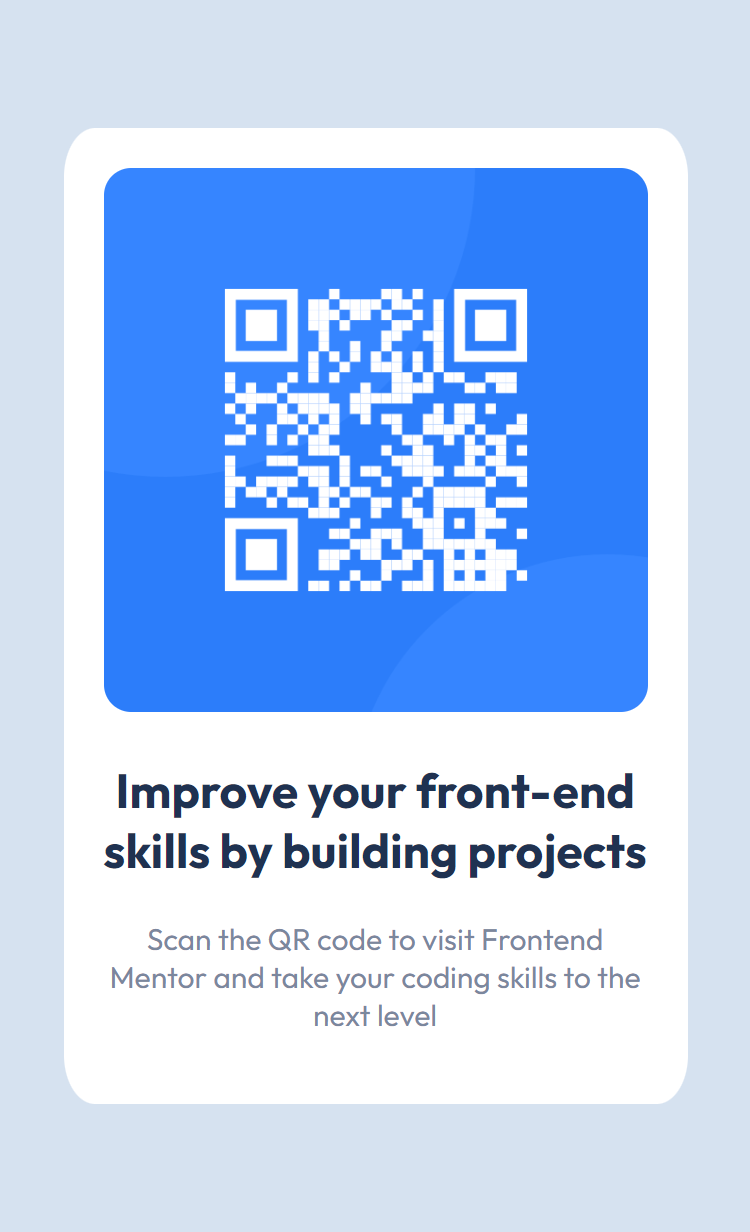
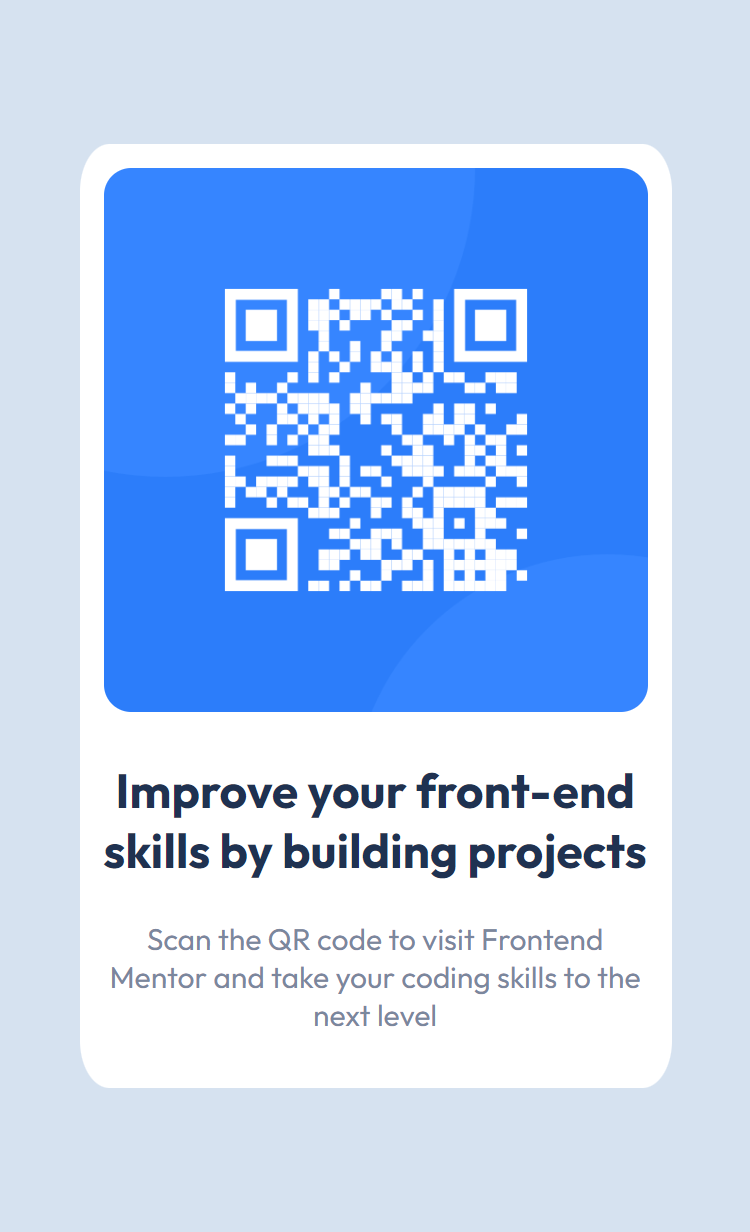
Final README and repository setup

Changed region(s): [[0.0613, 0.0925, 0.92, 0.8945]]

diff --git a/style.css b/style.css
@@ -21,7 +21,7 @@ body {
 .component {
   background-color: var(--white);
   flex-direction: column;
-  padding: 20px;
+  padding: 12px;
   border-radius: 5%;
   max-width: 17rem;
 }

diff --git a/README.md b/README.md
@@ -1,87 +1,75 @@
-# Frontend Mentor - QR code component
+# Frontend Mentor - QR code component solution
 
-![Design preview for the QR code component coding challenge](./design/desktop-preview.jpg)
+This is a solution to the [QR code component challenge on Frontend Mentor](https://www.frontendmentor.io/challenges/qr-code-component-iux_sIO_H). Frontend Mentor challenges help you improve your coding skills by building realistic projects.
 
-## Welcome! 👋
+## Table of contents
 
-Thanks for checking out this front-end coding challenge.
+- [Overview](#overview)
+  - [Screenshot](#screenshot)
+  - [Links](#links)
+- [My process](#my-process)
+  - [Built with](#built-with)
+  - [What I learned](#what-i-learned)
+  - [Continued development](#continued-development)
+  - [Useful resources](#useful-resources)
+- [Author](#author)
+- [Acknowledgments](#acknowledgments)
 
-[Frontend Mentor](https://www.frontendmentor.io) challenges help you improve your coding skills by building realistic projects.
+**Note: Delete this note and update the table of contents based on what sections you keep.**
 
-**To do this challenge, you need a basic understanding of HTML and CSS.**
+## Overview
 
-## The challenge
+### Desktop Screenshot
 
-Your challenge is to build out this QR code component and get it looking as close to the design as possible.
+![](/screenshot.png)
 
-You can use any tools you like to help you complete the challenge. So if you've got something you'd like to practice, feel free to give it a go.
+### Mobile Screenshot
 
-Want some support on the challenge? [Join our Slack community](https://www.frontendmentor.io/slack) and ask questions in the **#help** channel.
+![](/mobile_screenshot.png)
 
-## Where to find everything
+### Links
 
-Your task is to build out the project to the designs inside the `/design` folder. You will find both a mobile and a desktop version of the design. 
+- Solution URL: [Repository with the solution](https://github.com/nicolasfig/qr-code-component-main)
+- Live Site URL: [Live site on github pages](https://nicolasfig.github.io/qr-code-component-main/)
 
-The designs are in JPG static format. Using JPGs will mean that you'll need to use your best judgment for styles such as `font-size`, `padding` and `margin`. 
+## My process
 
-If you would like the design files (we provide Sketch & Figma versions) to inspect the design in more detail, you can [subscribe as a PRO member](https://www.frontendmentor.io/pro).
+### Built with
 
-You will find all the required assets in the `/images` folder. The assets are already optimized.
+- Semantic HTML5 markup
+- CSS custom properties
+- Flexbox
 
-There is also a `style-guide.md` file containing the information you'll need, such as color palette and fonts.
+### What I learned
 
-## Building your project
+Learned basic css positioning using flexbox, how to fit images inside a container and the use of css variables
 
-Feel free to use any workflow that you feel comfortable with. Below is a suggested process, but do not feel like you need to follow these steps:
+```css
+:root {
+  --white: hsl(0, 0%, 100%);
+  --light-grey: hsl(212, 45%, 89%);
+  --grayish-blue: hsl(220, 15%, 55%);
+  --dark-blue: hsl(218, 44%, 22%);
+  --outfit: "Outfit", sans-serif;
+  --f-regular: 400;
+  --f-bold: 700;
+}
 
-1. Initialize your project as a public repository on [GitHub](https://github.com/). Creating a repo will make it easier to share your code with the community if you need help. If you're not sure how to do this, [have a read-through of this Try Git resource](https://try.github.io/).
-2. Configure your repository to publish your code to a web address. This will also be useful if you need some help during a challenge as you can share the URL for your project with your repo URL. There are a number of ways to do this, and we provide some recommendations below.
-3. Look through the designs to start planning out how you'll tackle the project. This step is crucial to help you think ahead for CSS classes to create reusable styles.
-4. Before adding any styles, structure your content with HTML. Writing your HTML first can help focus your attention on creating well-structured content.
-5. Write out the base styles for your project, including general content styles, such as `font-family` and `font-size`.
-6. Start adding styles to the top of the page and work down. Only move on to the next section once you're happy you've completed the area you're working on.
+img {
+  object-fit: contain;
+  border-radius: 5%;
+  width: 100%;
+}
+```
 
-## Deploying your project
+### Continued development
 
-As mentioned above, there are many ways to host your project for free. Our recommend hosts are:
+### Useful resources
 
-- [GitHub Pages](https://pages.github.com/)
-- [Vercel](https://vercel.com/)
-- [Netlify](https://www.netlify.com/)
+- [Flexbox maven](https://flexbox.malven.co/) - A really helpful flexbox cheatsheet
 
-You can host your site using one of these solutions or any of our other trusted providers. [Read more about our recommended and trusted hosts](https://medium.com/frontend-mentor/frontend-mentor-trusted-hosting-providers-bf000dfebe).
+## Author
 
-## Create a custom `README.md`
-
-We strongly recommend overwriting this `README.md` with a custom one. We've provided a template inside the [`README-template.md`](./README-template.md) file in this starter code.
-
-The template provides a guide for what to add. A custom `README` will help you explain your project and reflect on your learnings. Please feel free to edit our template as much as you like.
-
-Once you've added your information to the template, delete this file and rename the `README-template.md` file to `README.md`. That will make it show up as your repository's README file.
-
-## Submitting your solution
-
-Submit your solution on the platform for the rest of the community to see. Follow our ["Complete guide to submitting solutions"](https://medium.com/frontend-mentor/a-complete-guide-to-submitting-solutions-on-frontend-mentor-ac6384162248) for tips on how to do this.
-
-Remember, if you're looking for feedback on your solution, be sure to ask questions when submitting it. The more specific and detailed you are with your questions, the higher the chance you'll get valuable feedback from the community.
-
-## Sharing your solution
-
-There are multiple places you can share your solution:
-
-1. Share your solution page in the **#finished-projects** channel of the [Slack community](https://www.frontendmentor.io/slack). 
-2. Tweet [@frontendmentor](https://twitter.com/frontendmentor) and mention **@frontendmentor**, including the repo and live URLs in the tweet. We'd love to take a look at what you've built and help share it around.
-3. Share your solution on other social channels like LinkedIn.
-4. Blog about your experience building your project. Writing about your workflow, technical choices, and talking through your code is a brilliant way to reinforce what you've learned. Great platforms to write on are [dev.to](https://dev.to/), [Hashnode](https://hashnode.com/), and [CodeNewbie](https://community.codenewbie.org/).
-
-We provide templates to help you share your solution once you've submitted it on the platform. Please do edit them and include specific questions when you're looking for feedback. 
-
-The more specific you are with your questions the more likely it is that another member of the community will give you feedback.
-
-## Got feedback for us?
-
-We love receiving feedback! We're always looking to improve our challenges and our platform. So if you have anything you'd like to mention, please email hi[at]frontendmentor[dot]io.
-
-This challenge is completely free. Please share it with anyone who will find it useful for practice.
-
-**Have fun building!** 🚀
+- Website - [Add your name here](https://www.your-site.com)
+- Frontend Mentor - [@yourusername](https://www.frontendmentor.io/profile/yourusername)
+- Twitter - [@yourusername](https://www.twitter.com/yourusername)
